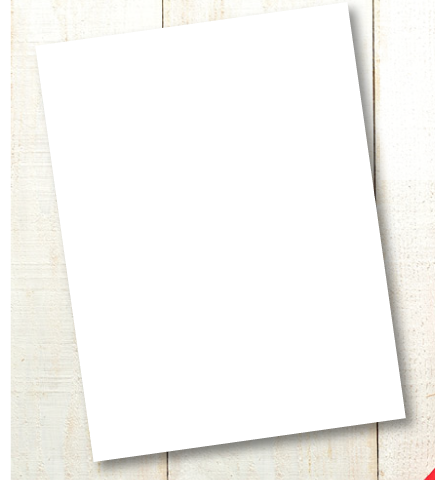
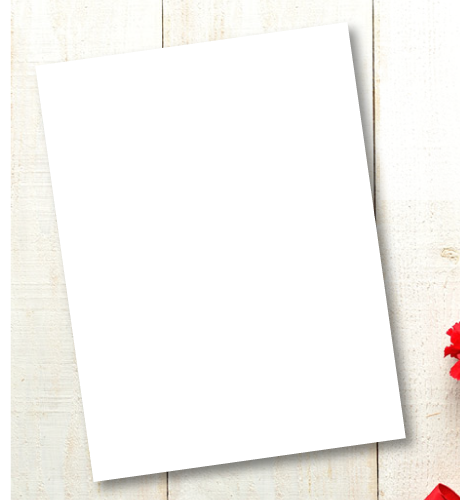
stable version

diff --git a/index.php b/index.php
@@ -21,7 +21,7 @@ require_once './src/autoloader.php';
 $config = [
   // Your driver-specific configuration
   'facebook' => [
[2 lines of base64/hex data omitted]
     'app_secret' => 'ee950085cfeacdd271ebaad5be3672aa',
     'verification'=>'happymothersdayudnforyou',
   ]
@@ -41,6 +41,7 @@ function saveImage($srcUrl, $distUrl, $fileName) {
 
 function imageSynthesis($srcTitle, $srcText, $srcImage, $fbUserName, $userId, $fbId, $float, $bot) {
   // Card parameter
+  $distPath = $userId . '_' . $float . '.png';
   $titleArray = explode("/", $srcTitle);
   $textArray = explode("/", $srcText);
   $titleArrayLength = sizeof($titleArray);
@@ -58,13 +59,13 @@ function imageSynthesis($srcTitle, $srcText, $srcImage, $fbUserName, $userId, $f
   $editor->open($image4, 'card_materials/cover_bg.png');
 
   // 圖片resize, resizeExact, resizeFill, resizeFit
-  $editor->resizeFill($image2, 410, 460);
-  
+  $editor->resizeFill($image2, 435, 480);
+
   // 圖片旋轉
   $editor->rotate($image2, 8, new Color('#ffffff'));
   
   // 圖片合成
-  $editor->blend($image1, $image2, 'normal', 1, 'top-left', 0, 260);
+  $editor->blend($image1, $image2, 'normal', 1, 'top-left', 0, 246);
   $editor->blend($image1, $image3 , 'normal', 1, 'top-left', 0, 246);
   
   // 標題
@@ -126,9 +127,11 @@ function imageSynthesis($srcTitle, $srcText, $srcImage, $fbUserName, $userId, $f
       $conn->query($sql2);
       $sql3 = "UPDATE cards SET cover_image='" . $inputCover . "' WHERE user_id=" . $inputUserId;
       $conn->query($sql3);
+      $sql4 = "UPDATE cards SET updated_at=NOW() WHERE user_id=" . $inputUserId;
+      $conn->query($sql4);
     }
   } else {
-    $sql = "INSERT INTO cards (user_name, user_id, image, cover_image) VALUES ('" . $inputUserName . "', '" . $inputUserId . "', '" . $inputImage . "','" . $inputCover . "')";
+    $sql =  "INSERT INTO cards (user_name, user_id, image, cover_image) VALUES ('" . $inputUserName . "', '" . $inputUserId . "', '" . $inputImage . "','" . $inputCover . "')";
 
     $conn->query($sql);
   }
@@ -171,22 +174,20 @@ function certifyReply($userStorage, $bot) {
       Button::create('預設內文2: [預設內文2]')->value('defaultText2')
     ]));
   } else if ($imageFlag != 1) {
-    $bot->reply(Question::create('🖼請選擇一張合照，如果不上傳合照，機器人使用預設圖片。')->addButtons([
+    $bot->reply(Question::create('🖼請選擇一張合照，如果不上傳合照，機器人將使用預設圖片。')->addButtons([
       Button::create('我要上傳')->value('userInputImage'),
       Button::create('我不上傳')->value('defaultImage1'),
     ]));
   } else {
     $bot->reply('💌卡片製作中，請稍候...');
-    $titleContent = $bot->userStorage()->get('title');
-    $textContent = $bot->userStorage()->get('text');
-    $fbUserName = $bot->userStorage()->get('userName');
-    $userId = $bot->userStorage()->get('userId');
-    $fbId = $bot->userStorage()->get('fbId');
-    $float = $bot->userStorage()->get('imageFloat');
-    $defaultImageFlag = $bot->userStorage()->get('defalutImageFlag');
-    
-    $bot->userStorage()->delete();
-    
+    $titleContent = $userStorage->get('title');
+    $textContent = $userStorage->get('text');
+    $fbUserName = $userStorage->get('userName');
+    $userId = $userStorage->get('userId');
+    $fbId = $userStorage->get('fbId');
+    $float = $userStorage->get('imageFloat');
+    $defaultImageFlag = $userStorage->get('defaultImageFlag');
+        
     if ($defaultImageFlag != 1) {
       imageSynthesis($titleContent, $textContent, 'users_data/userImage_' . $userId . '_' . $float . '.png', $fbUserName, $userId, $fbId, $float, $bot);
     } else {
@@ -219,13 +220,31 @@ $botman->hears('{text}', function(BotMan $bot, $text) {
 });
 
 $botman->hears('我要做卡片', function(BotMan $bot) {
-  $bot->reply('❤本活動要依序上傳「標題」、「內文」、「合照」，就可完成小卡片的製作。（如下示意圖）');
+  $bot->userStorage()->delete();
+
+  // 回覆連結
+  $bot->reply(GenericTemplate::create()
+    ->addImageAspectRatio(GenericTemplate::RATIO_SQUARE)
+    ->addElements([
+      Element::create('💌聯合報母親節卡片製作')
+        ->subtitle('本活動要依序上傳
+        1.「標題」
+        2.「內文」
+        3.「合照」
+        就可完成小卡片的製作。')
+        ->image('https://nmdap.udn.com.tw/newmedia/mothers_day_bot/card_materials/example.png')
+    ])
+  );
+
+  // $bot->reply('❤本活動要依序上傳
+  // 1.「標題」
+  // 2.「內文」
+  // 3.「合照」
+  // 就可完成小卡片的製作。
+  // （如下示意圖）');
   // $bot->typesAndWaits(0.5);
   // $attachment = new Image('https://nmdap.udn.com.tw/newmedia/mothers_day_bot/card_materials/example.png');
-  // // Build message object
   // $message = OutgoingMessage::create('')->withAttachment($attachment);
-
-  // // Reply message object
   // $bot->reply($message);
 
   $user = $bot->getUser();
@@ -233,6 +252,7 @@ $botman->hears('我要做卡片', function(BotMan $bot) {
   $lastname = $user->getLastName();
   $id = $user->getId();
   $hashId = hash('ripemd160', $id);
+
   $bot->userStorage()->save([
     'userName' => $lastname . ' ' . $firstname,
     'userId' => $hashId,
@@ -315,7 +335,7 @@ $botman->hears('userInputText', function(BotMan $bot) {
 $botman->hears('defaultImage1', function(BotMan $bot) {
   $float = rand(0,10000);
   $bot->userStorage()->save([
-    'defalutImageFlag' => '1',
+    'defaultImageFlag' => '1',
     'imageFlag' => 1,
     'imageFloat' => $float
   ]);
@@ -329,19 +349,21 @@ $botman->hears('userInputImage', function(BotMan $bot) {
 
 // 接收使用者輸入圖片
 $botman->receivesImages(function(BotMan $bot, $images) {
-  foreach ($images as $image) {
-    $bot->reply('🖼圖片上傳中，請稍候...');
-    $imageUrl=$image->getUrl();
-    $userId = $bot->userStorage()->get('userId');
-    $float = rand(0,10000);
-    $bot->userStorage()->save([
-      'imageFlag' => 1,
-      'imageFloat' => $float
-    ]);
-    saveImage($imageUrl, 'users_data/', 'userImage_' . $userId . '_' . $float . '.png');
-    
-    $bot->typesAndWaits(1);
-    certifyReply($bot->userStorage(), $bot);
+  if ($bot->userStorage()->get('imageFlag') != 1) {
+    foreach ($images as $image) {
+      $bot->reply('🖼圖片上傳中，請稍候...');
+      $imageUrl=$image->getUrl();
+      $userId = $bot->userStorage()->get('userId');
+      $float = rand(0,10000);
+      $bot->userStorage()->save([
+        'imageFlag' => 1,
+        'imageFloat' => $float
+      ]);
+      saveImage($imageUrl, 'users_data/', 'userImage_' . $userId . '_' . $float . '.png');
+      
+      $bot->typesAndWaits(1);
+      certifyReply($bot->userStorage(), $bot);
+    }
   }
 });
 
